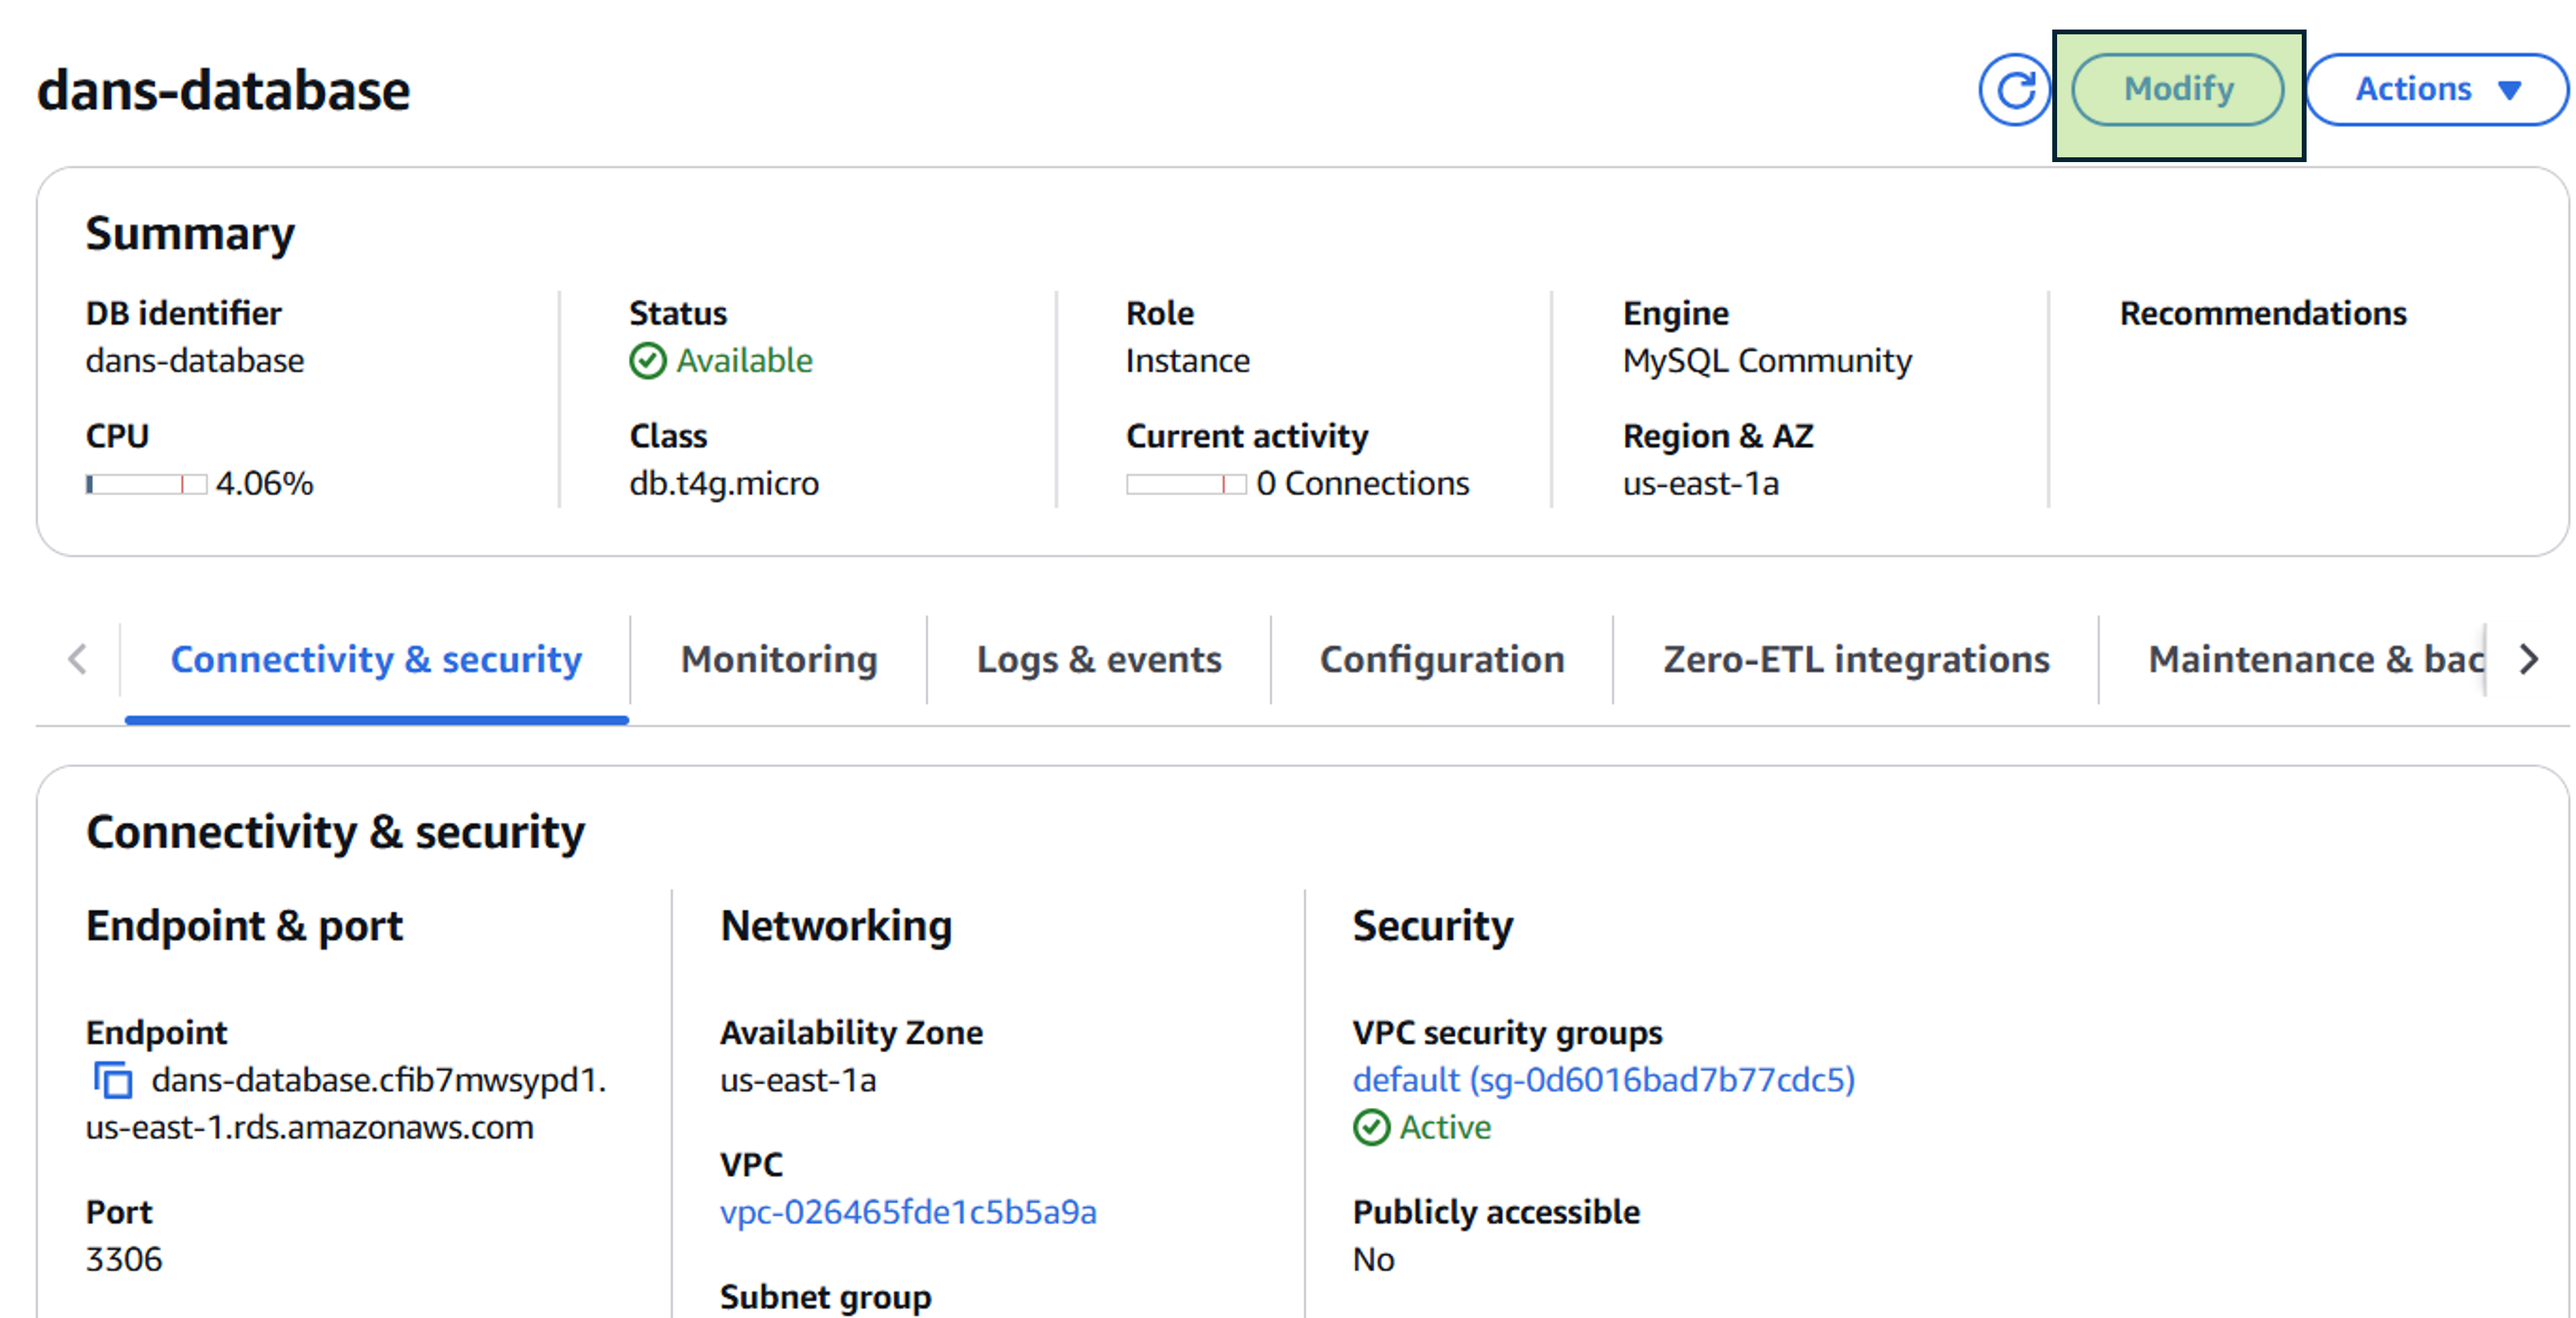
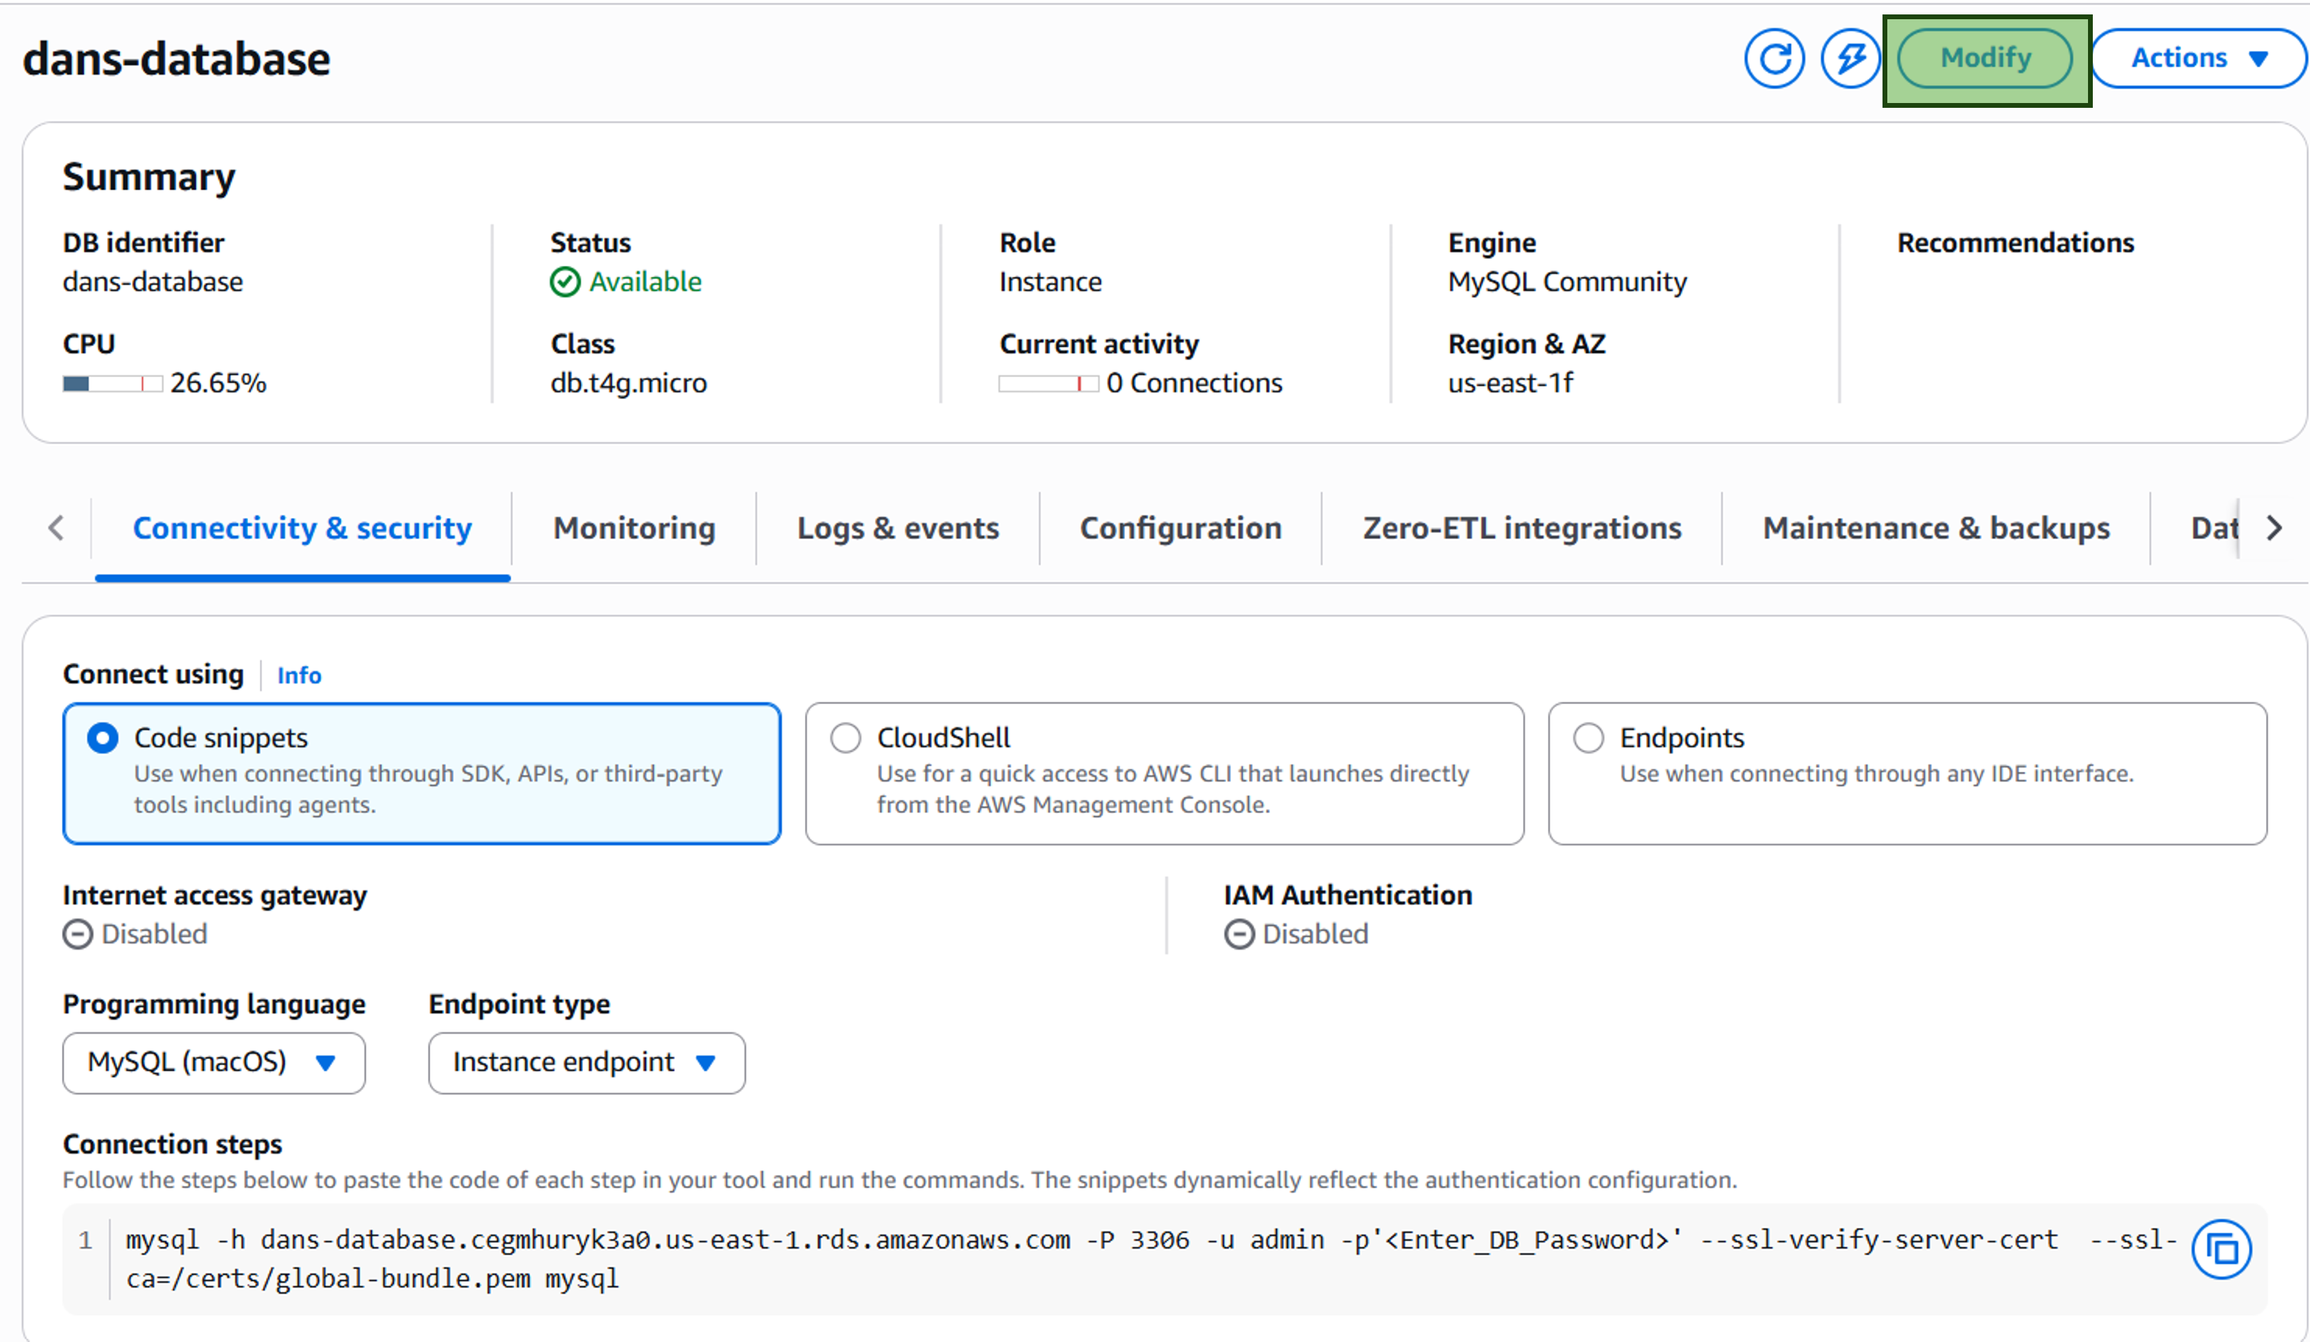
Idk some stuff

diff --git a/docs/lab-3-aws.md b/docs/lab-3-aws.md
@@ -36,25 +36,31 @@ You'll then be on the RDS console. To create a new database, click the "Create d
 <img src = "aws/aws5.png" class="aws">
 <hr/>
 
-Now, there are a few options to select to make sure you don't mess things up, so pay attention!
+Now, there are a few options to select to make sure you don't mess things up, so proceed gently.
 
-1. In the "Choose a database creation method", select **Easy create**
+1. In the "Choose a database creation method", select **Full configuration**
 2. In the "Configuration" section, select **MySQL**
+3. In the "Engine version" bit, select **MySQL 8.0.40** (the default version misbehaves with MySQL Workbench)
 <hr/>
 
-<img src = "aws/aws6.png" class="aws">
+<img src = "aws/aws6new.png" class="aws">
 <hr/>
 
-3. In the "DB Instance size" section, select **Free tier**
+3. In the "Templates" section, select **Sandbox**
+<hr/>
+
+<img src = "aws/aws7new.png" class="aws">
+<hr/>
+
 4. Give your database instance a name. By default it'll be 'database-1' but you can change it to whatever you like.
 5. In the 'Master username' section, the default is 'admin'. You can change it, but **make sure you remember what you changed it to!**
 6. In the "Credentials management" section, select **Self managed**, then you can choose whether to auto-generate a password, or choose your own. 
 <hr/>
 
-<img src = "aws/aws7.png" class="aws">
+<img src = "aws/aws7new2.png" class="aws">
 
 <hr/>
-Ignore the other options, and click the "Create database" button at the bottom of the screen.
+Scroll right down to the bottom and click the "Create database" button at the bottom of the screen.
 
 <img src = "aws/aws8.png" class="aws">
 
@@ -62,7 +68,7 @@ Ignore the other options, and click the "Create database" button at the bottom o
 
 ## Step 3 - Configure the database to work with MySQL Workbench
 
-You'll be returned to the screen showing your existing databases. In the case below, I've got one database that's "Available" and the one I've just created, that says **Creating**. This will take a couple of minutes (maybe a bit longer) but eventually the "Creating" status will change to **Backing Up** and finally **Available**. Once this has happend, click on the name of your newly created database.
+You'll be returned to the screen showing your existing databases. In the case below, I've got one database that's "Available" and the one I've just created, that says **Creating**. This will take a couple of minutes (probably a bit longer) but eventually the "Creating" status will change to **Backing Up** and finally **Available**. Once this has happend, click on the name of your newly created database.
 <hr/>
 
 <img src = "aws/aws9.png" class="aws">
@@ -80,7 +86,7 @@ Scroll down to the **Connectivity** section, click **Additional Configuration** 
 <img src = "aws/aws11.png" class="aws">
 <hr/>
 
-You then need to configure the security rules so that you're able to access your database from whatever machine you're on. Click on the link under **VPC security groups**
+You then need to configure the security rules so that you're able to access your database from whatever machine you're on. Go back to the main page, select **Endpoints** and then click on the link under **VPC security groups**
 
 <hr/>
 
